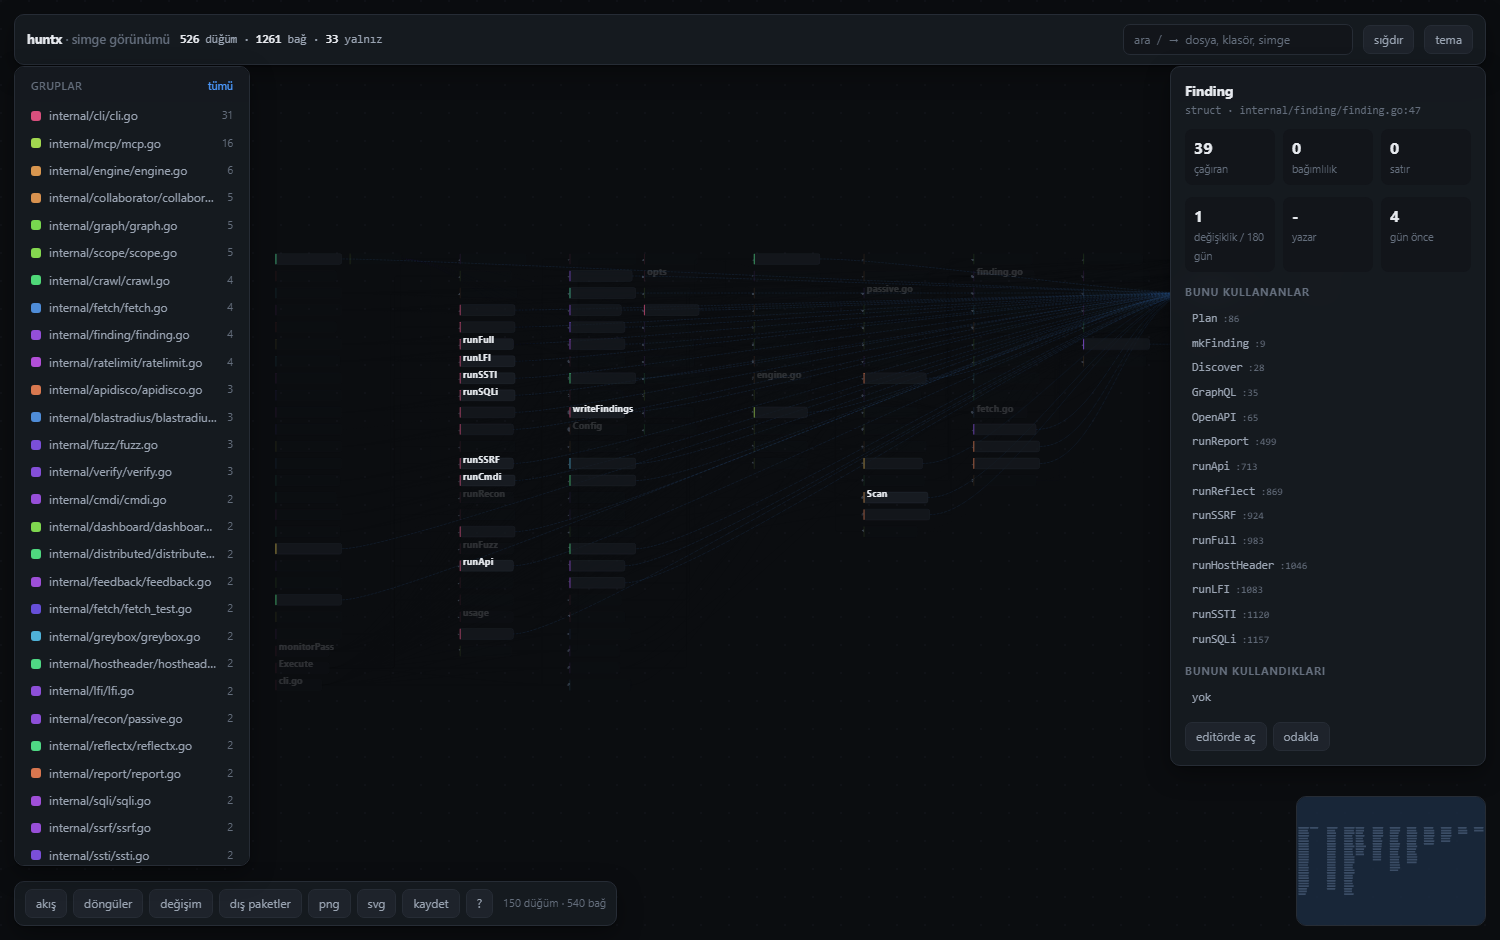
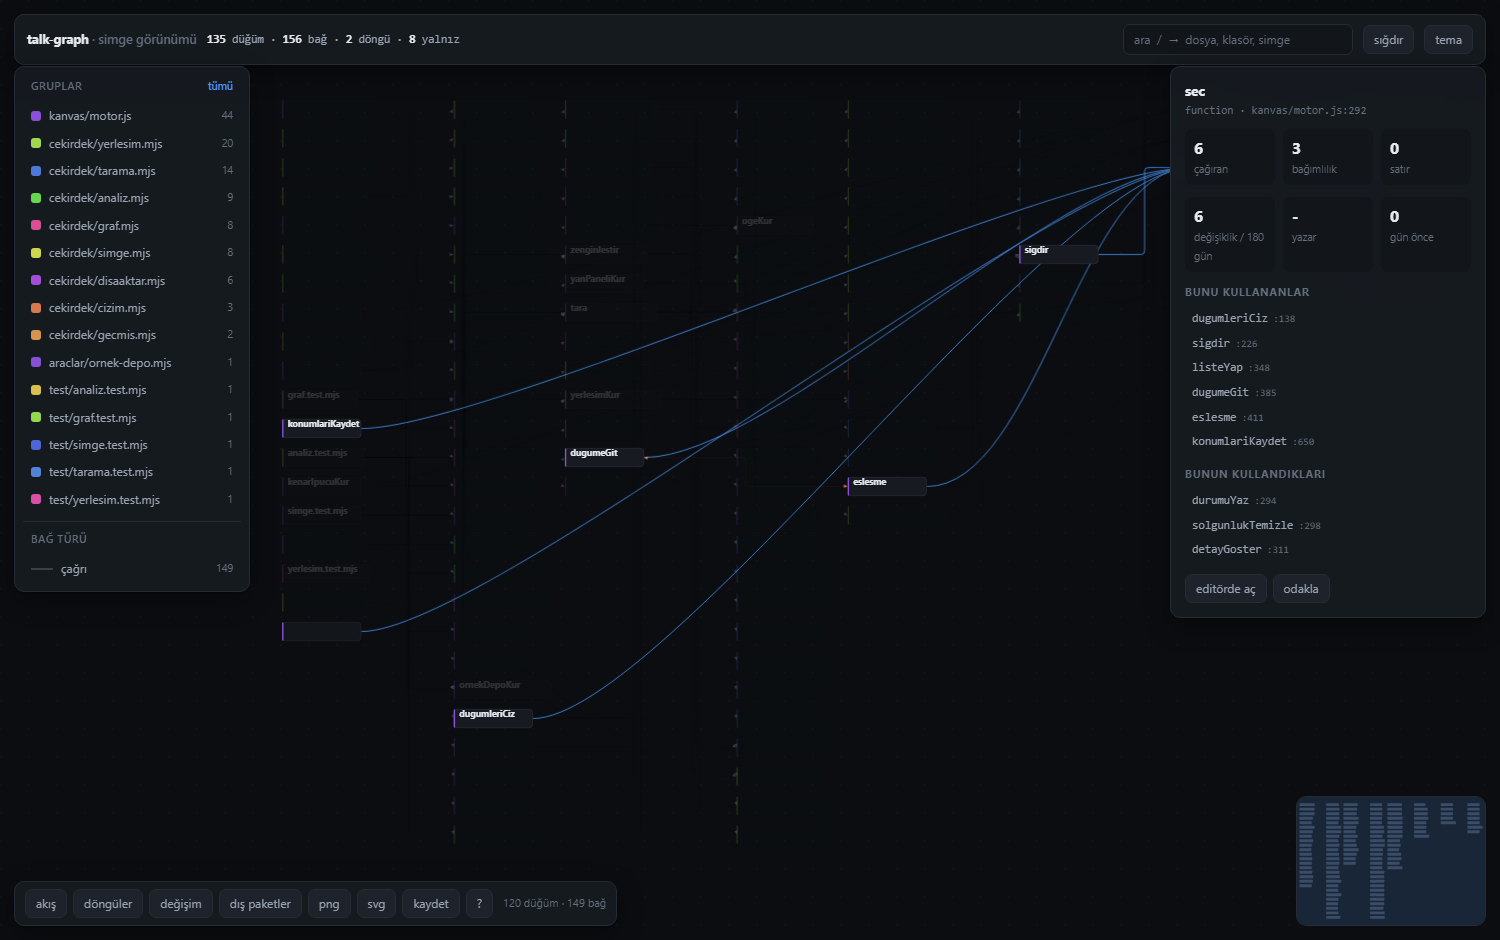
Lisans PolyForm Noncommercial, ekran goruntuleri kendi deposundan
- LICENSE: PolyForm Noncommercial 1.0.0 tam metni + iki dilli ozet.
  Ticari olmayan her kullanim serbest, satis ve ticari hizmet ayri lisans ister.
- Butun ekran goruntuleri talk-graph kendi haritasini cizerken alindi; oncekiler
  ozel bir deponun 76 dosya adini gosteriyordu
- README/README.tr lisans bolumleri, package.json license alani guncellendi

diff --git a/CHANGELOG.md b/CHANGELOG.md
@@ -2,6 +2,22 @@
 
 Format: [Keep a Changelog](https://keepachangelog.com/en/1.1.0/), versioning: [SemVer](https://semver.org/lang/tr/).
 
+## [0.6.0] — 2026-09-09
+
+### Changed · Degisen
+
+- **Licence: PolyForm Noncommercial 1.0.0.** Free for any noncommercial purpose — personal work,
+  research, teaching, charities, government. Selling it or running it inside a commercial
+  service needs a separate licence from the copyright holder.
+  *Lisans: ticari olmayan her kullanim serbest, satis ve ticari hizmet ayri lisans ister.*
+- **Every screenshot is now the tool mapping itself.** The previous images came from a private
+  repository and exposed its internal package names; all 16 were regenerated from this
+  repository, which also makes them reproducible by anyone who clones it.
+  *Butun ekran goruntuleri araci kendi haritasini cizerken alindi; onceki gorseller ozel bir
+  deponun ic yapisini gosteriyordu.*
+
+[0.6.0]: https://github.com/Talkdedsec/talk-graph/releases/tag/v0.6.0
+
 ## [0.5.1] — 2026-09-09
 
 ### Fixed · Duzeltilen

diff --git a/README.tr.md b/README.tr.md
@@ -177,4 +177,6 @@ Uzun kenarlar sanal düğüm zincirine girmez, eğri olarak çizilir; kesişmeyi
 
 ## Lisans
 
-Özel mülk. Tüm hakları saklıdır — [LICENSE](LICENSE).
+[PolyForm Noncommercial 1.0.0](LICENSE) — ticari olmayan her kullanım serbest: kişisel iş,
+araştırma, eğitim, hayır kurumu, kamu. Satmak ya da ticari bir hizmetin içinde çalıştırmak
+ayrı lisans ister: talkdedsec@proton.me.

diff --git a/README.md b/README.md
@@ -177,4 +177,6 @@ crossings low: on a 76-file Go repository the package map lands at 61 crossings 
 
 ## Licence
 
-Proprietary. All rights reserved — see [LICENSE](LICENSE).
+[PolyForm Noncommercial 1.0.0](LICENSE) — free for any noncommercial use: personal work,
+research, teaching, charities, government. Selling it or running it inside a commercial
+service needs a separate licence: talkdedsec@proton.me.
